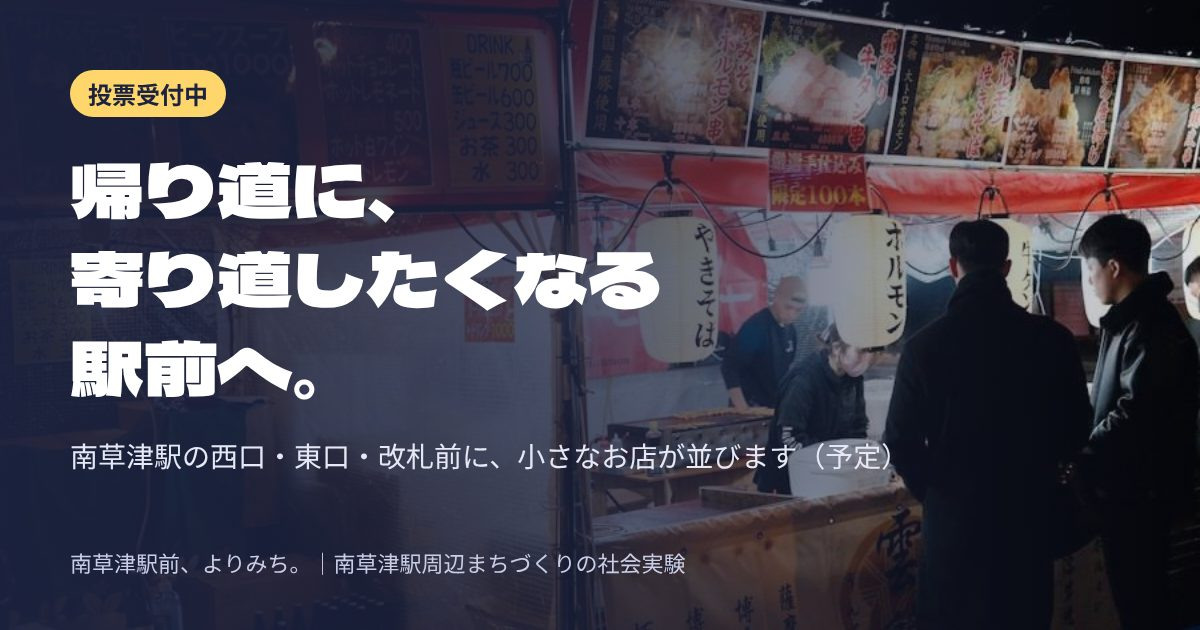
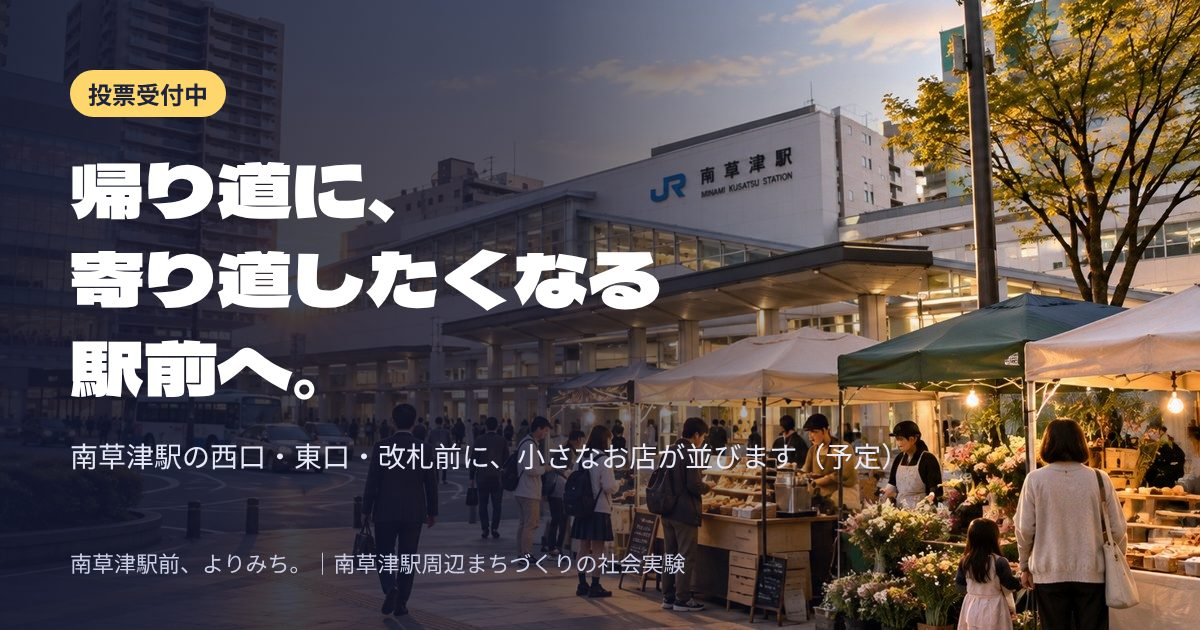
南草津よりみち：最初の画面を南草津駅前の完成イメージに
- いただいた完成イメージを最初の画面に（パソコン・スマホで切り抜きを分け、左側のテナント看板は外した）
- 「完成イメージです。実際の会場・お店のようすとは異なります」と明記
- 時間で変わる駅前のイラストは2番目に移し、画面に入ったときに電球が灯るように
- 共有用の画像も完成イメージで作り直し

Claude-Session: https://claude.ai/code/session_01NLPhdYi3hffzv2Wq3DfxUc

diff --git a/minakusa-yorimichi.html b/minakusa-yorimichi.html
@@ -20,7 +20,7 @@
 <meta property="og:title" content="南草津駅前、よりみち。帰り道に、寄り道したくなる駅前へ">
 <meta property="og:description" content="西口・東口・改札前に、小さなお店が並ぶ予定です。帰り道に何が買えたらうれしい？ 投票受付中。">
 <meta property="og:url" content="https://www.bridgecycleco.com/minakusa-yorimichi.html">
-<meta property="og:image" content="https://www.bridgecycleco.com/images/minakusa/yorimichi/ogp.jpg">
+<meta property="og:image" content="https://www.bridgecycleco.com/images/minakusa/yorimichi/ogp.jpg?v=2">
 <meta name="twitter:card" content="summary_large_image">
 <link rel="icon" href="favicon.ico">
 <link rel="apple-touch-icon" href="apple-touch-icon.png">
@@ -86,10 +86,21 @@ header .wrap{display:flex;align-items:center;justify-content:space-between;gap:1
 .hero[data-t="noon"] .orb{left:74%;top:8%;background:#FFF3B8;box-shadow:0 0 70px 26px rgba(255,243,184,.7)}
 .hero[data-t="eve"] .orb{left:83%;top:46%;background:#FF9A55;box-shadow:0 0 80px 30px rgba(255,140,70,.55)}
 .hero[data-t="night"] .orb{left:80%;top:10%;background:#F4F1DE;box-shadow:0 0 40px 8px rgba(244,241,222,.35),inset -18px -6px 0 0 #D8D3B6}
-.hero-in{position:relative;z-index:2;padding-top:44px}
+.hero-in{position:relative;z-index:2;padding-top:56px}
+.hero-in .lead{color:inherit;opacity:.85;margin-top:10px}
+/* 最初の画面（完成イメージ） */
+.cover{position:relative;min-height:min(90vh,780px);display:flex;align-items:flex-end;color:#fff;background:var(--night);overflow:hidden}
+.cover picture,.cover picture img{position:absolute;inset:0;width:100%;height:100%}
+.cover picture img{object-fit:cover;object-position:60% 50%}
+.cover::after{content:"";position:absolute;inset:0;background:linear-gradient(90deg,rgba(18,22,46,.88) 0%,rgba(18,22,46,.62) 38%,rgba(18,22,46,.08) 72%),linear-gradient(0deg,rgba(18,22,46,.55) 0%,transparent 35%)}
+.cover-in{position:relative;z-index:2;padding-top:80px;padding-bottom:64px;width:100%}
+.cover h1{font-family:'Dela Gothic One',sans-serif;font-size:clamp(38px,6.6vw,74px);line-height:1.18;letter-spacing:.02em;margin-top:18px;text-shadow:0 2px 24px rgba(0,0,0,.35)}
+.cover h1 span{display:block}
+.cover .lead{color:#fff;opacity:.92;font-size:17px;margin-top:18px;max-width:30em;text-shadow:0 1px 12px rgba(0,0,0,.4)}
+.cover-cap{position:absolute;right:16px;bottom:10px;z-index:2;font-size:11px;color:rgba(255,255,255,.75);margin:0}
 .hdr-cta .short{display:none}
 .sp-only{display:none}
-.hero h1{font-family:'Dela Gothic One',sans-serif;font-size:clamp(38px,7.4vw,76px);line-height:1.18;letter-spacing:.02em}
+.hero h1,.hero-old-h1{font-family:'Dela Gothic One',sans-serif;font-size:clamp(38px,7.4vw,76px);line-height:1.18;letter-spacing:.02em}
 .hero h1 span{display:block}
 .hero .lead{color:inherit;opacity:.9;font-size:17px;margin-top:18px;max-width:34em}
 .hero-cta{display:flex;flex-wrap:wrap;gap:12px;margin-top:24px}
@@ -294,7 +305,13 @@ footer .wrap{display:flex;flex-wrap:wrap;justify-content:space-between;gap:16px}
   .pick .btn{grid-column:1/-1}
   .pick .emo{font-size:34px}
   .hide-sp{display:none}
-  .hero-in{padding-top:30px}
+  .hero-in{padding-top:40px}
+  .cover{min-height:88vh}
+  .cover picture img{object-position:72% 50%}
+  .cover::after{background:linear-gradient(180deg,rgba(18,22,46,.15) 0%,rgba(18,22,46,.35) 35%,rgba(18,22,46,.92) 72%)}
+  .cover-in{padding-bottom:44px}
+  .cover .lead{font-size:15px}
+  .cover-cap{left:16px;right:16px;bottom:10px}
   .hero .lead{font-size:15px}
   .hero-cta .btn{flex:1;padding:12px 10px}
   #voteBtn{width:100%}
@@ -338,20 +355,33 @@ footer .wrap{display:flex;flex-wrap:wrap;justify-content:space-between;gap:16px}
 
 <main id="top">
 
-<!-- 最初の画面：時間で景色と並ぶお店が変わる -->
-<section class="hero lighting" id="hero" data-t="eve" style="padding:0">
-  <div class="sky morning"></div><div class="sky noon"></div><div class="sky eve"></div><div class="sky night"></div>
-  <div class="orb" aria-hidden="true"></div>
-
-  <div class="wrap hero-in">
+<!-- 最初の画面：完成イメージ -->
+<section class="cover" id="cover">
+  <picture>
+    <source media="(max-width:860px)" srcset="images/minakusa/yorimichi/hero-sp.jpg">
+    <img src="images/minakusa/yorimichi/hero-wide.jpg" alt="夕方の南草津駅前にテントのお店が並び、人が立ち寄っている完成イメージ" width="1305" height="941" fetchpriority="high">
+  </picture>
+  <div class="wrap cover-in">
     <span class="pill"><i aria-hidden="true"></i>準備中・開催日は調整しています</span>
-    <h1 style="margin-top:18px"><span>帰り道に、</span><span>寄り道したくなる</span><span>駅前へ。</span></h1>
+    <h1><span>帰り道に、</span><span>寄り道したくなる</span><span>駅前へ。</span></h1>
     <p class="lead">JR南草津駅の西口・東口・改札前に、小さなお店が並ぶ予定です。<br class="hide-sp">どんなお店があったらうれしいか、先に教えてください。</p>
     <div class="hero-cta">
       <a class="btn btn-bulb" href="#vote">30秒で投票する</a>
       <a class="btn btn-ghost-w" href="#register">開催日を先に知る</a>
     </div>
     <p class="trust">南草津駅周辺まちづくりの社会実験　実施：UDCみなくさ・立命館大学</p>
+  </div>
+  <p class="cover-cap">完成イメージです。実際の会場・お店のようすとは異なります。</p>
+</section>
+
+<!-- 時間で景色と並ぶお店が変わる -->
+<section class="hero" id="hero" data-t="eve" style="padding:0">
+  <div class="sky morning"></div><div class="sky noon"></div><div class="sky eve"></div><div class="sky night"></div>
+  <div class="orb" aria-hidden="true"></div>
+
+  <div class="wrap hero-in">
+    <h2 class="h2">あなたが通る時間の、<br>駅前のようす。</h2>
+    <p class="lead">下で時間を選ぶと、空の色と屋台の品が変わります。</p>
   </div>
 
   <svg class="scene" viewBox="0 0 1200 380" preserveAspectRatio="xMidYMax slice" role="img" aria-label="駅前に屋台が並び、電球が灯るイメージ図">
@@ -760,6 +790,10 @@ footer .wrap{display:flex;flex-wrap:wrap;justify-content:space-between;gap:16px}
   }
   seg.forEach(function(b){ b.addEventListener('click', function(){ setTime(b.getAttribute('data-t'), current!=='eve'&&current!=='night'); }); });
   setTime('eve', false);
+  if('IntersectionObserver' in window){
+    var io = new IntersectionObserver(function(es){ es.forEach(function(e){ if(e.isIntersecting){ hero.classList.add('lighting'); io.disconnect(); } }); },{threshold:.35});
+    io.observe(hero);
+  } else { hero.classList.add('lighting'); }
 
   // ── 投票欄の電球の飾り ───────────────────
   var gar = document.getElementById('garland');
